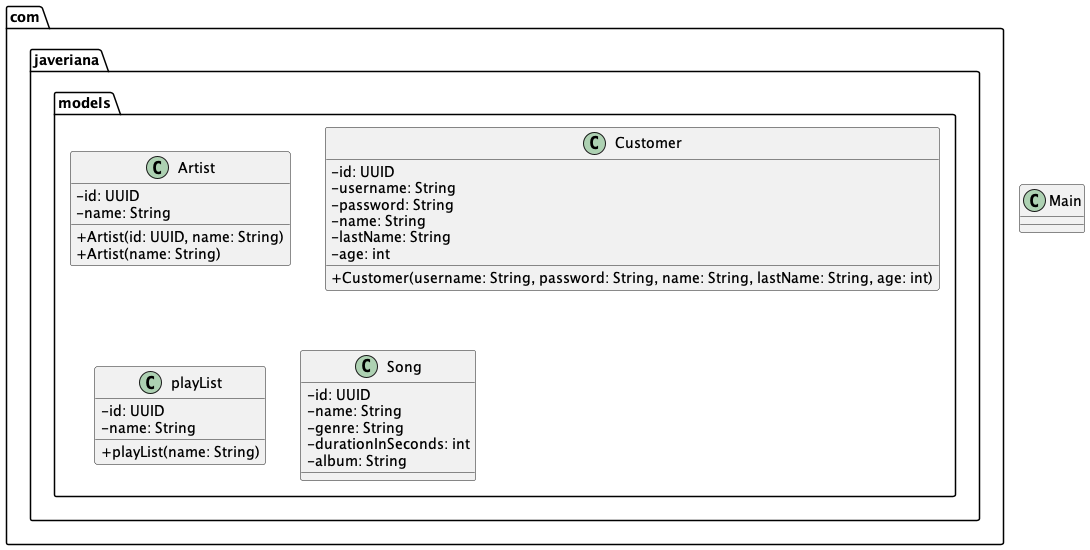
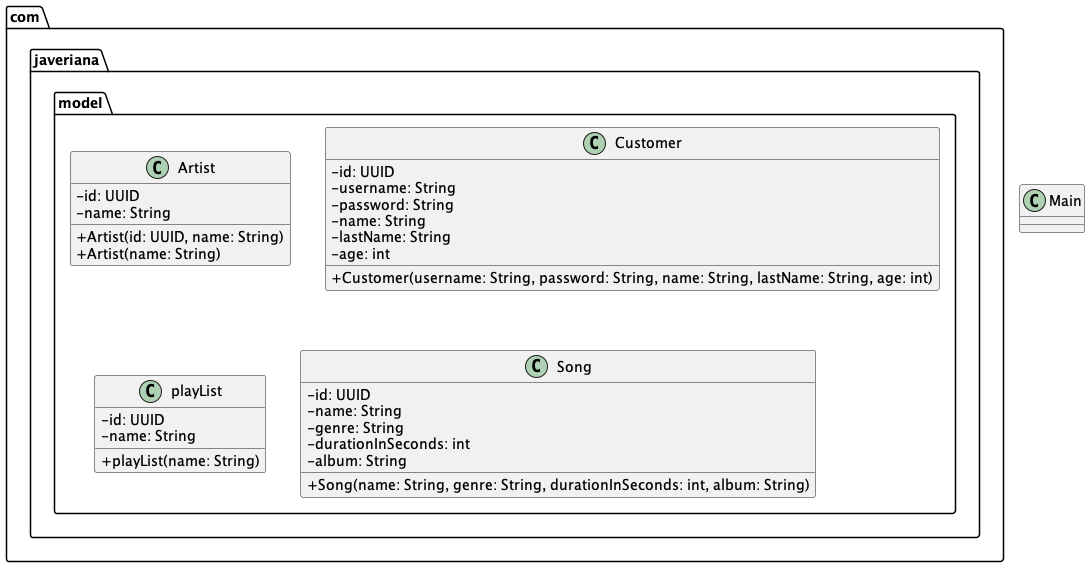
add solution

diff --git a/src/test/java/models/PlaylistClassDefinitionTest.java b/src/test/java/models/PlaylistClassDefinitionTest.java
@@ -8,11 +8,11 @@ import java.util.Arrays;
 import java.util.Collections;
 import java.util.List;
 
-public class PlayListClassDefinitionTest extends ClassDefinitionTest {
+public class PlaylistClassDefinitionTest extends ClassDefinitionTest {
 
     @Override
     protected String getClassName() {
-        return "com.javeriana.models.PlayList";
+        return "com.javeriana.model.Playlist";
     }
 
     @Override

diff --git a/src/test/java/models/CustomerClassDefinitionTest.java b/src/test/java/models/CustomerClassDefinitionTest.java
@@ -12,7 +12,7 @@ public class CustomerClassDefinitionTest extends ClassDefinitionTest {
 
     @Override
     protected String getClassName() {
-        return "com.javeriana.models.Customer";
+        return "com.javeriana.model.Customer";
     }
 
     @Override

diff --git a/src/test/java/models/ArtistClassDefinitionTest.java b/src/test/java/models/ArtistClassDefinitionTest.java
@@ -11,7 +11,7 @@ public class ArtistClassDefinitionTest extends ClassDefinitionTest {
 
     @Override
     protected String getClassName() {
-        return "com.javeriana.models.Artist";
+        return "com.javeriana.model.Artist";
     }
 
     @Override

diff --git a/src/test/java/models/SongClassDefinitionTest.java b/src/test/java/models/SongClassDefinitionTest.java
@@ -12,7 +12,7 @@ public class SongClassDefinitionTest extends ClassDefinitionTest {
 
     @Override
     protected String getClassName() {
-        return "com.javeriana.models.Song";
+        return "com.javeriana.model.Song";
     }
 
     @Override

diff --git a/README.md b/README.md
@@ -171,9 +171,9 @@ Una vez que haya abierto el proyecto, se crearán las clases necesarias para tra
 
 ### Paquetes
 
-#### Paquete Models
+#### Paquete model
 
-El paquete `Models` contiene las clases que representan las entidades principales de la aplicación de música.
+El paquete `model` contiene las clases que representan las entidades principales de la aplicación de música.
 Una entidad, en el contexto de la programación y el desarrollo de software, se refiere a un objeto o concepto que es identificable.
 En términos simples, una entidad es una instancia única de un objeto.
 En este programa, las entidades son: Artist, Customer, PlayList y Song.
@@ -232,13 +232,13 @@ La clase `Customer` tendrá dos constructores, de momento se implementará solo 
 
 [Volver al índice](#indice)
 
-#### Clase PlayList
+#### Clase Playlist
 
-La clase `PlayList` representa una lista de reproducción en una aplicación de música.
+La clase `Playlist` representa una lista de reproducción en una aplicación de música.
 
 ###### Atributos
 
-La clase `PlayList` tiene dos atributos:
+La clase `Playlist` tiene dos atributos:
 
 1. `id`: Este atributo es una instancia de la clase `UUID`. Se utiliza para identificar de manera única cada instancia de `PlayList`.
 
@@ -246,9 +246,9 @@ La clase `PlayList` tiene dos atributos:
 
 ###### Constructores
 
-La clase `PlayList` tiene dos constructores, de momento se implementará solo uno de ellos:
+La clase `Playlist` tiene dos constructores, de momento se implementará solo uno de ellos:
 
-1. `public PlayList(String name)`: Este constructor crea un objeto `PlayList` con el `name` proporcionado. El `id` se genera automáticamente.
+1. `public Playlist(String name)`: Este constructor crea un objeto `PlayList` con el `name` proporcionado. El `id` se genera automáticamente.
 
 
 [Volver al índice](#indice)
@@ -288,7 +288,7 @@ El método `main` debe realizar las siguientes acciones:
 
 1. Crear un objeto de la clase `Artist` con el nombre que el cliente le indique.
 2. Crear un objeto de la clase `Customer` con los datos que el cliente le indique.
-3. Crear un objeto de la clase `PlayList` con el nombre que el cliente le indique.
+3. Crear un objeto de la clase `Playlist` con el nombre que el cliente le indique.
 4. Crear un objeto de la clase `Song` con los datos que el cliente le indique.
 
 En todos los casos, los datos que el cliente le indique deben ser ingresados por consola con excepción del `id` que se generará automáticamente.
@@ -324,7 +324,7 @@ El programa debe compilar y ejecutar sin errores. Se debe cumplir con los siguie
 
 **Este taller es la base de su proyecto. Los posteriores talleres no se calificarán hasta que se haya completado este.
 Si todo está correcto, sumará 0.5 a su proyecto final.
-Este taller debe ser entregado durante la semana 10**
+Este taller debe ser entregado durante la semana 9**
 
 ## ¿Qué sigue?
 
